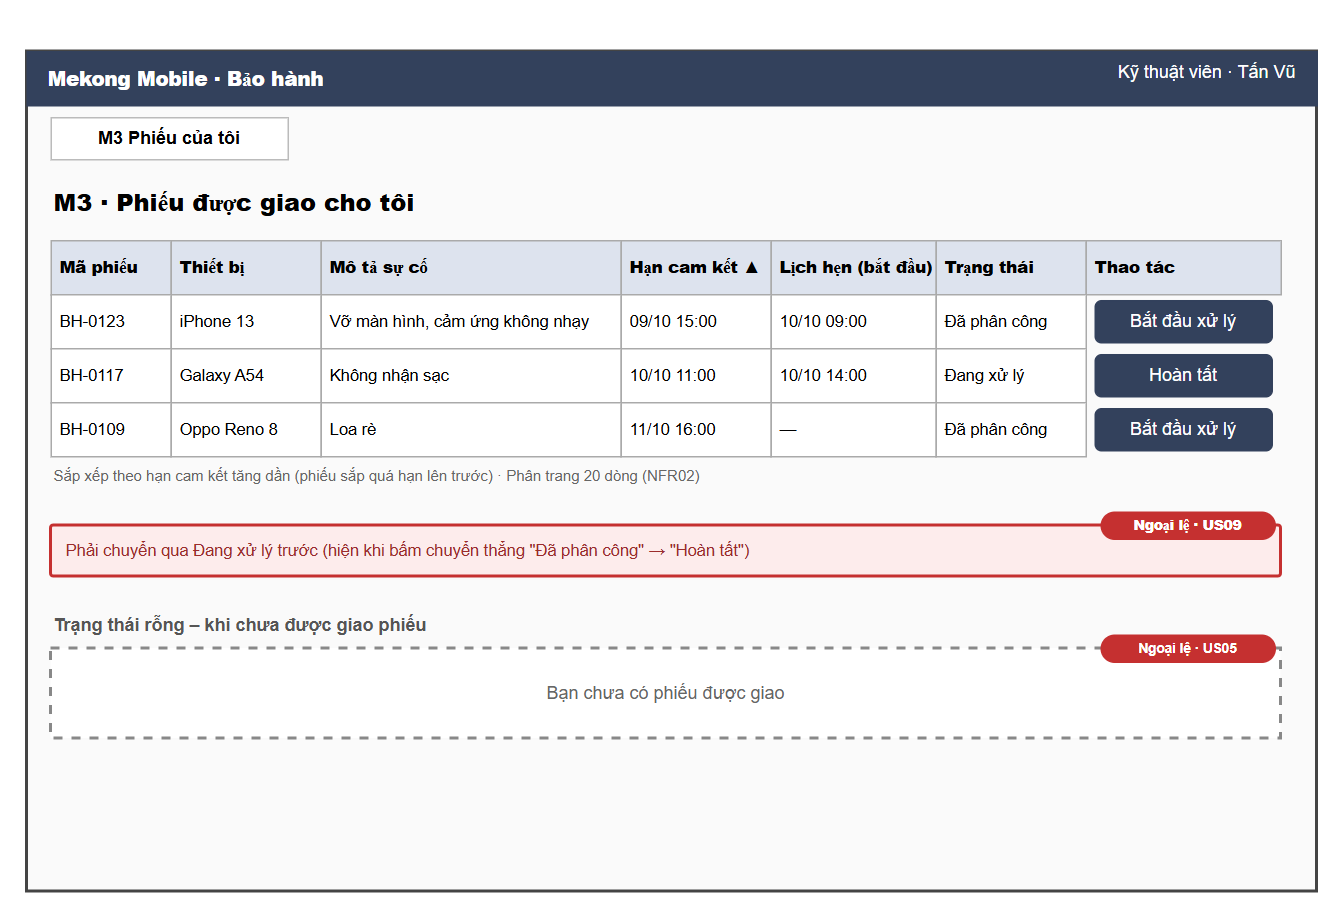
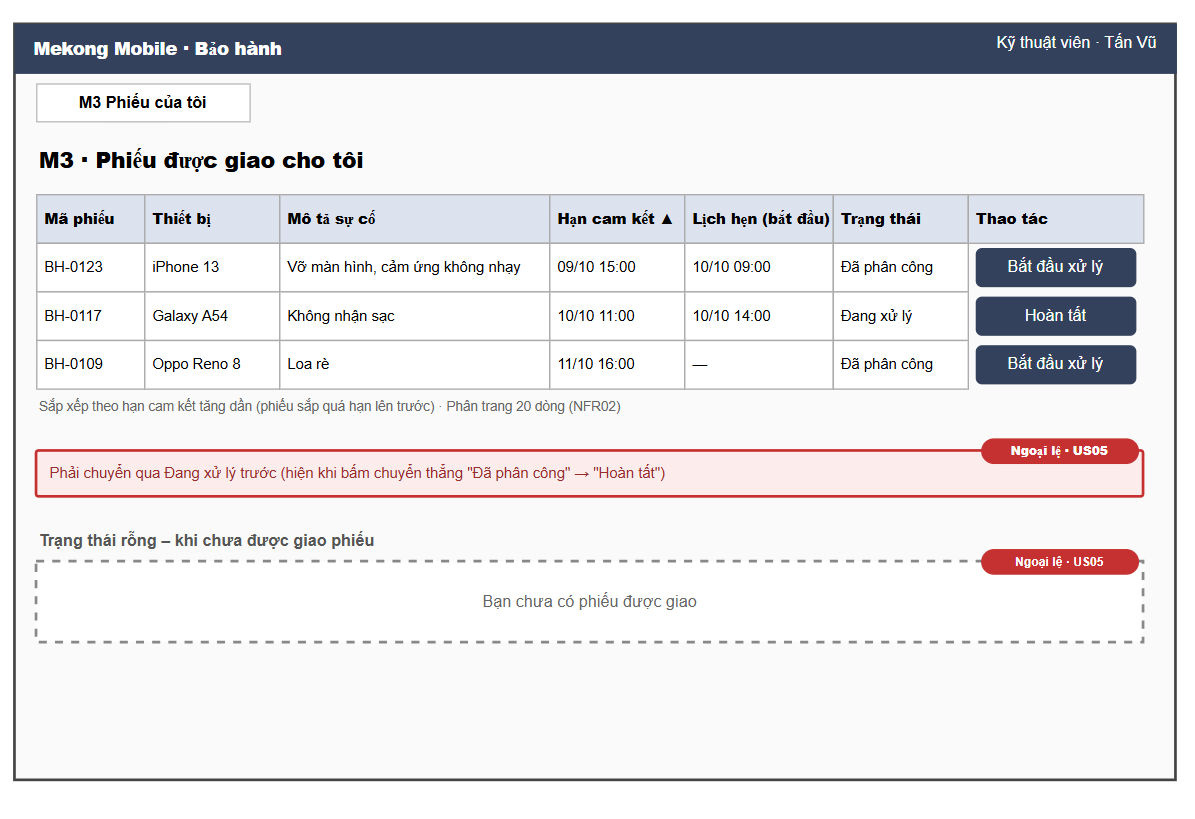
docs: cập nhật wireframe theo 7 user story

diff --git a/docs/wireframe.md b/docs/wireframe.md
@@ -6,41 +6,41 @@ File thiết kế gốc: [`wireframe.drawio`](wireframe.drawio) (3 trang: M1, M2
 
 ## 1. Danh sách màn hình
 
-| Màn hình | Vai trò | Tên màn hình | FR phục vụ |
-|---|---|---|---|
-| M1 | Quản lý trung tâm | Danh sách phiếu chờ phân công (kèm tổng quan và bộ lọc) | FR01, FR06, FR08 |
-| M2 | Quản lý trung tâm | Phân công kỹ thuật viên và đặt lịch hẹn | FR02, FR03, FR04, FR07 |
-| M3 | Kỹ thuật viên | Phiếu của tôi | FR05, FR09 |
+| Màn hình | Vai trò           | Tên màn hình                                            | FR phục vụ             |
+| -------- | ----------------- | ------------------------------------------------------- | ---------------------- |
+| M1       | Quản lý trung tâm | Danh sách phiếu chờ phân công (kèm tổng quan và bộ lọc) | FR01, FR06, FR08       |
+| M2       | Quản lý trung tâm | Phân công kỹ thuật viên và đặt lịch hẹn                 | FR02, FR03, FR04, FR07 |
+| M3       | Kỹ thuật viên     | Phiếu của tôi                                           | FR05, FR09             |
 
 ## 2. Đối chiếu trường hiển thị với mô hình dữ liệu (phép kiểm 4)
 
-| Màn hình | Trường hiển thị | Bảng.cột |
-|---|---|---|
-| M1 | Mã phiếu · Khách hàng · Thiết bị · Nhóm sự cố · Mức ưu tiên · Hạn cam kết · Trạng thái | `ticket.ticket_code` · `customer_name` · `device_model` · `issue_group` · `priority` · `due_date` · `status` |
-| M1 | Bộ lọc Trung tâm / Mức ưu tiên / Trạng thái | `service_center.name` · `ticket.priority` · `ticket.status` |
-| M1 | Phiếu phát sinh hôm nay; phiếu quá hạn hoặc còn ≤ 4 giờ | Tính từ `ticket.created_at`; `ticket.due_date` + `ticket.status` (không lưu) |
-| M1 | Số phiếu đang mở của từng kỹ thuật viên | `technician.full_name` + COUNT(`ticket` theo `technician_id`, `status` ≠ HOAN_TAT) (không lưu) |
-| M2 | Mã phiếu, khách hàng + số điện thoại, thiết bị, nhóm sự cố, mô tả, ưu tiên, hạn, trạng thái | `ticket.ticket_code` · `customer_name` · `customer_phone` · `device_model` · `issue_group` · `issue_description` · `priority` · `due_date` · `status` |
-| M2 | Kỹ thuật viên hiện tại / đề xuất; Tay nghề | `technician.full_name` (qua `ticket.technician_id`) · `technician_skill.proficiency` |
-| M2 | Lý do đổi | `ticket_log.reason` |
-| M2 | Lịch hẹn: loại, ngày, bắt đầu, kết thúc | `appointment.appointment_type` · `start_time` · `end_time` |
-| M3 | Mã phiếu · Thiết bị · Mô tả sự cố · Hạn cam kết · Trạng thái | `ticket.ticket_code` · `device_model` · `issue_description` · `due_date` · `status` |
-| M3 | Lịch hẹn (bắt đầu) | `appointment.start_time` |
+| Màn hình | Trường hiển thị                                                                             | Bảng.cột                                                                                                                                              |
+| -------- | ------------------------------------------------------------------------------------------- | ----------------------------------------------------------------------------------------------------------------------------------------------------- |
+| M1       | Mã phiếu · Khách hàng · Thiết bị · Nhóm sự cố · Mức ưu tiên · Hạn cam kết · Trạng thái      | `ticket.ticket_code` · `customer_name` · `device_model` · `issue_group` · `priority` · `due_date` · `status`                                          |
+| M1       | Bộ lọc Trung tâm / Mức ưu tiên / Trạng thái                                                 | `service_center.name` · `ticket.priority` · `ticket.status`                                                                                           |
+| M1       | Phiếu phát sinh hôm nay; phiếu quá hạn hoặc còn ≤ 4 giờ                                     | Tính từ `ticket.created_at`; `ticket.due_date` + `ticket.status` (không lưu)                                                                          |
+| M1       | Số phiếu đang mở của từng kỹ thuật viên                                                     | `technician.full_name` + COUNT(`ticket` theo `technician_id`, `status` ≠ HOAN_TAT) (không lưu)                                                        |
+| M2       | Mã phiếu, khách hàng + số điện thoại, thiết bị, nhóm sự cố, mô tả, ưu tiên, hạn, trạng thái | `ticket.ticket_code` · `customer_name` · `customer_phone` · `device_model` · `issue_group` · `issue_description` · `priority` · `due_date` · `status` |
+| M2       | Kỹ thuật viên hiện tại / đề xuất; Tay nghề                                                  | `technician.full_name` (qua `ticket.technician_id`) · `technician_skill.proficiency`                                                                  |
+| M2       | Lý do đổi                                                                                   | `ticket_log.reason`                                                                                                                                   |
+| M2       | Lịch hẹn: loại, ngày, bắt đầu, kết thúc                                                     | `appointment.appointment_type` · `start_time` · `end_time`                                                                                            |
+| M3       | Mã phiếu · Thiết bị · Mô tả sự cố · Hạn cam kết · Trạng thái                                | `ticket.ticket_code` · `device_model` · `issue_description` · `due_date` · `status`                                                                   |
+| M3       | Lịch hẹn (bắt đầu)                                                                          | `appointment.start_time`                                                                                                                              |
 
 Ngược lại, mọi bảng đều xuất hiện ở ít nhất một màn hình: `service_center`, `technician`, `technician_skill`, `ticket`, `appointment` (M1–M3) và `ticket_log` (M2 – nhập lý do; lịch sử xem qua truy vấn kiểm toán).
 
 ## 3. Đối chiếu luồng ngoại lệ với giao diện (phép kiểm 6)
 
-| Luồng ngoại lệ | Vị trí trên wireframe |
-|---|---|
-| UC01 · 2a – Không có phiếu "Mới" | M1: trạng thái rỗng "Không có phiếu chờ phân công" |
-| UC01 · 4a – Không có kỹ thuật viên phù hợp | M2: thông báo + nút "Phân công thủ công" |
-| UC01 · 5a – Kỹ thuật viên ≥ 10 phiếu | M2: hộp cảnh báo với nút "Có" / "Không" |
-| UC01 · 5b – Phiếu đã được phân công | M2: thông báo "Phiếu đã được phân công" |
+| Luồng ngoại lệ                                            | Vị trí trên wireframe                                       |
+| --------------------------------------------------------- | ----------------------------------------------------------- |
+| UC01 · 2a – Không có phiếu "Mới"                          | M1: trạng thái rỗng "Không có phiếu chờ phân công"          |
+| UC01 · 4a – Không có kỹ thuật viên phù hợp                | M2: thông báo + nút "Phân công thủ công"                    |
+| UC01 · 5a – Kỹ thuật viên ≥ 10 phiếu                      | M2: hộp cảnh báo với nút "Có" / "Không"                     |
+| UC01 · 5b – Phiếu đã được phân công                       | M2: thông báo "Phiếu đã được phân công"                     |
 | US03 – Đổi kỹ thuật viên thiếu lý do / phiếu "Đang xử lý" | M2: "Vui lòng nhập lý do đổi kỹ thuật viên" và hộp xác nhận |
-| US04 – Trùng lịch | M2: thông báo trùng lịch dưới nút "Đặt lịch hẹn" |
-| US05 – Chưa có phiếu được giao | M3: "Bạn chưa có phiếu được giao" |
-| US09 – Nhảy bước trạng thái | M3: "Phải chuyển qua Đang xử lý trước" |
+| US04 – Trùng lịch                                         | M2: thông báo trùng lịch dưới nút "Đặt lịch hẹn"            |
+| US05 – Chưa có phiếu được giao                            | M3: "Bạn chưa có phiếu được giao"                           |
+| US05 – Nhảy bước trạng thái                               | M3: "Phải chuyển qua Đang xử lý trước"                      |
 
 ## 4. Quy ước hiển thị
 
